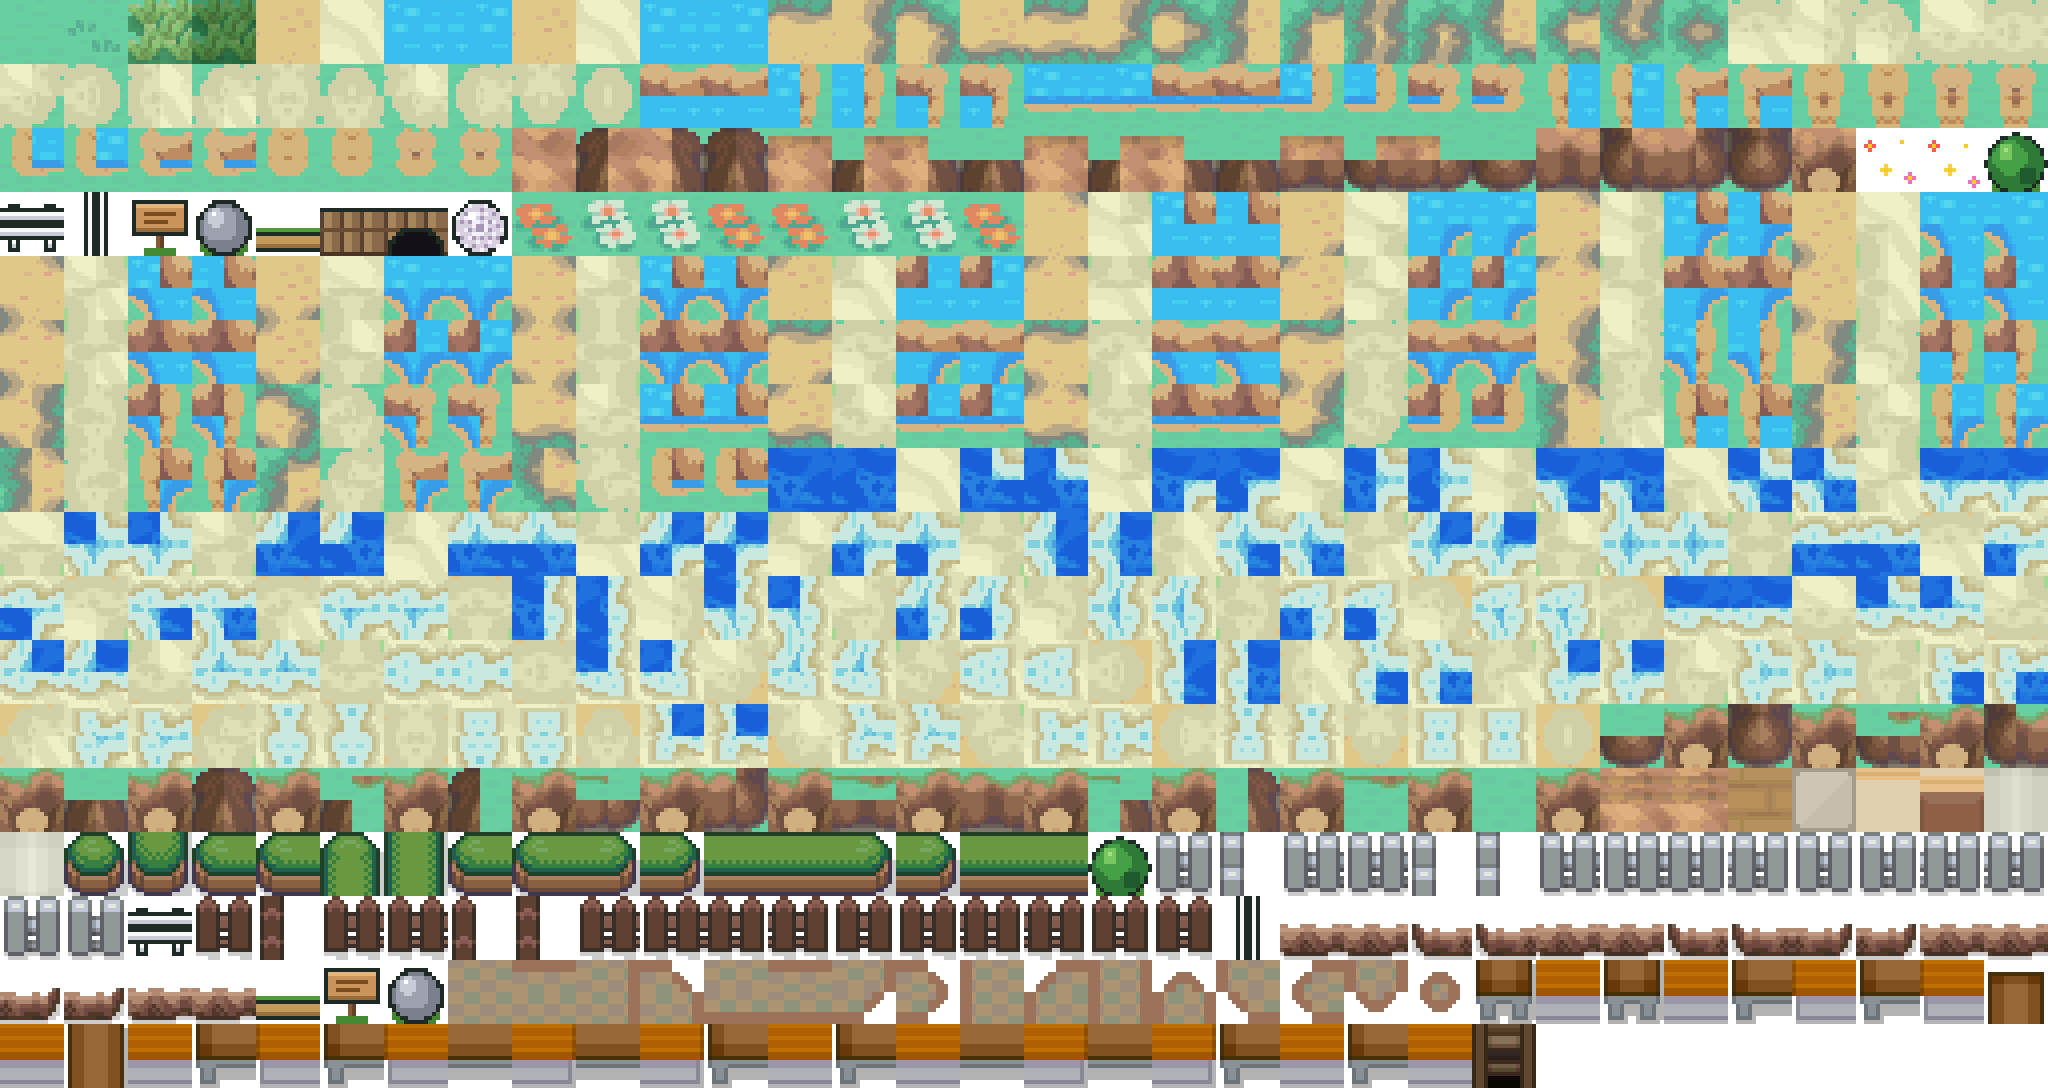
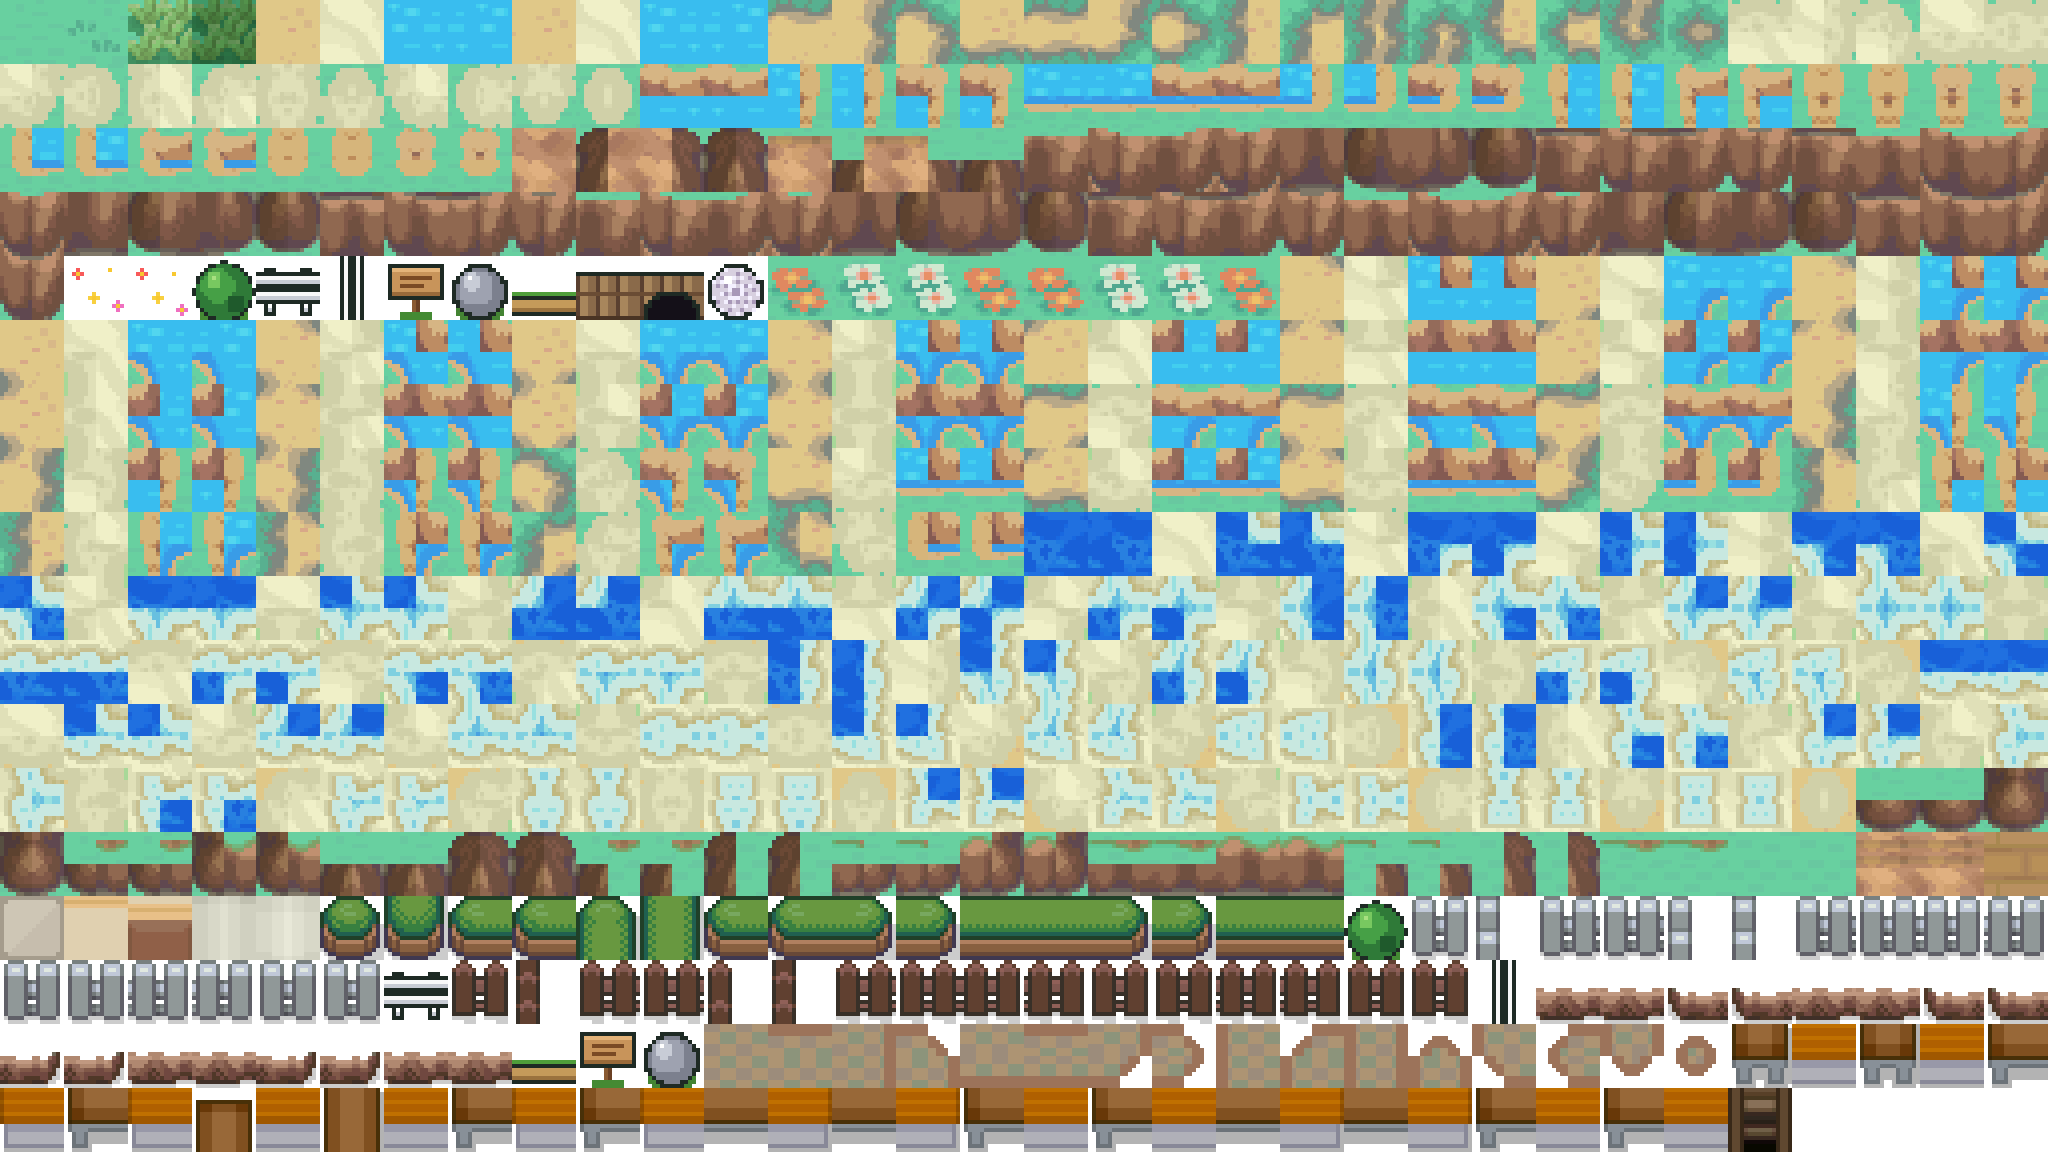
V2: paredes de montaña y bocas de cueva con las piezas de pared de la lámina
Claude-Session: https://claude.ai/code/session_018v1fAZrQHSEnPWssP3zxe4

diff --git a/src/game/scenes/overworld.ts b/src/game/scenes/overworld.ts
@@ -467,7 +467,9 @@ export class Overworld implements Scene {
       // muebles altos con dibujo propio (V2): su suelo aquí y el mueble con los personajes (por profundidad)
       const alto = PROPS[`obj_${t}`];
       if (alto?.nativo) {
-        g.tile(suelo, x * 16 - cx, y * 16 - cy, x, y);
+        // bocas de cueva (V2): la pared debajo y la boca encima, por profundidad
+        if (t === "monte_cueva" || t === "cueva_entrada") g.tile(t, x * 16 - cx, y * 16 - cy, x, y, suelo, this.vecinos(x, y, t), this.map.env, 0);
+        else g.tile(suelo, x * 16 - cx, y * 16 - cy, x, y);
         altos.push([`obj_${t}`, x * 16 - cx, y * 16 - cy]);
         continue;
       }

diff --git a/tools/art/tileset_v2.py b/tools/art/tileset_v2.py
@@ -134,6 +134,15 @@ def relieve(h, r, c0, mask, cesped=False):
     o = a_cesped_v2(o)
     return sobre(HIERBA, o)
 
+def pared(y, e, w, alt):
+    """Casilla de pared de la montaña (16 px desde la fila y de la lámina terreno2, columnas 0-3)."""
+    def col(c): return a_cesped_v2(c16(T2, c * 16, y))
+    medio = col(1 + alt)
+    o = medio.copy()
+    if w: o[:, :8] = col(0)[:, :8]
+    if e: o[:, 8:] = col(3)[:, 8:]
+    return o
+
 def con_cueva(t, h, r):
     """Boca de cueva de la plantilla (fila r, columnas 4-5: recortada centrada en el hueco) sobre la pared."""
     b = a_cesped_v2(c16(h, 4 * 16 + 8, r * 16))
@@ -328,17 +337,21 @@ def main():
     # tile más arriba (se recorta desplazado).
     for k in range(16):
         pon(f"acantilado~{k}", relieve(T2, 335, 0, 15 - k, cesped=True))          # ~: vecinos iguales
-        pon(f"cueva_entrada~{k}", con_cueva(relieve(T2, 335, 0, 15 - k, cesped=True), T2, 341))
+        pon(f"cueva_entrada~{k}", relieve(T2, 335, 0, 15 - k, cesped=True))          # la boca va encima (obj_cueva_entrada)
     for n in (0, 1):
         for e in (0, 1):
             for w in (0, 1):
                 pon(f"monte_cima_{n}{e}{w}", relieve(T2, 315, 0, n | e * 2 | w * 8))
     for e in (0, 1):
         for w in (0, 1):
-            pon(f"monte_alta_{e}{w}", relieve(T2, 315, 0, 1 | e * 2 | w * 8))
-            pon(f"monte_cara1_{e}{w}", relieve(T2, 315, 0, 1 | 4 | e * 2 | w * 8))
-            pon(f"monte_cara2_{e}{w}", relieve(T2, 315, 0, 4 | e * 2 | w * 8))
-    pon("monte_cueva", con_cueva(relieve(T2, 315, 0, 4), T2, 321))
+            # paredes de la montaña con las piezas de pared de la lámina (filas 550-557): la de dos alturas se
+            # reparte entre la casilla alta y la baja; la de una altura, en una casilla. Extremos redondeados a
+            # los lados abiertos; en medio alternan dos columnas.
+            for q in range(4):
+                pon(f"monte_alta_{e}{w}", sobre(HIERBA, pared(8838, e, w, q % 2)), q)
+                pon(f"monte_cara2_{e}{w}", sobre(HIERBA, pared(8854, e, w, q % 2)), q)
+                pon(f"monte_cara1_{e}{w}", sobre(HIERBA, pared(8808, e, w, q % 2)), q)
+    pon("monte_cueva", sobre(HIERBA, pared(8854, 0, 0, 0)))          # la boca va encima (obj_monte_cueva)
     # escaleras talladas: en la roca de la montaña y en los desniveles de césped
     pon("escalon", sobre(t16(T2, 331, 4), t16(T2, 331, 4)))
     pon("escalon_cesped", sobre(t16(T2, 331, 4), t16(T2, 331, 4)))         # también de roca: se leen mejor
@@ -396,6 +409,8 @@ def main():
         "obj_planta": recorta(INT, 16, 7752, 16, 42),
         "obj_estanteria": recorta(INT, 48, 7264, 16, 50),
         "obj_pc": recorta(INT, 64, 6704, 18, 34),
+        "obj_monte_cueva": recorta(T2, 0, 8928, 48, 32),             # boca de cueva de la montaña (2 casillas)
+        "obj_cueva_entrada": recorta(T2, 0, 8928, 48, 32),
     }
     def base_solida(s):
         ys = np.where((s[..., 3] == 255).any(1))[0]

diff --git a/PROGRESO.md b/PROGRESO.md
@@ -184,5 +184,7 @@ Roadmap: 7 fases (0–6). Cada fase termina en una puerta.
 - V2, relieve: segunda lámina del usuario (`assets/reference/tileset_v2/terreno2.png` y `edificios2.png`, pasadas a tiras nativas de 128 px). Los acantilados («A») son ahora desniveles con la plantilla de meseta de césped (el terreno del norte está más alto: la cara mira al sur, a casilla entera); la montaña («%») usa la plantilla de roca marrón (borde, laterales y cara), con boca de cueva y escaleras talladas de la lámina. El borde de las «saltillas» (cornisas «v») sigue siendo la pieza fina de la primera lámina.
 - V2, ciudades nuevas (`src/game/world/ciudades_v2.ts`, solo en la V2): ciudades de unas 50×38 casillas y pueblos de unas 30×24, con calles en cuadrícula, avenida central y bandas de edificios que dan a las calles. Conservan los edificios propios, sus interiores, los PNJ con historia (los guardias en su salida o puerta), carteles (junto a su edificio o salida) y objetos; añaden casas nuevas con interior y un vecino, comercios y bloques del tileset sin repetir, arboledas, farolas, macetas, paseantes con frases, estanque en los pueblos y muelle con velero en Ciudad Pili e Isla Conjugada (el ferri llega al embarcadero, `puntos.ferri`). Comprobación: `bun run tools/v2_check.ts` (accesos, warps de ida y vuelta, PNJ y objetos) y `node tools/playtest_v2.cjs` (entra y sale por las 81 puertas).
 
+- V2, montaña (Ruta 3 y demás «%»): las paredes usan las piezas de pared de la lámina terreno2 (filas 550-557): la de dos alturas repartida entre la casilla alta y la baja, la de una altura en una casilla, con extremos redondeados a los lados abiertos; la boca de cueva es la de la lámina (2 casillas de ancho), dibujada encima de la pared (también en los desniveles de césped).
+
 ## Siguiente tarea
 Pendiente del GDD: Modo Torneo y mochila bloqueada en Difícil, objetos equipados, variocolor y RandomLocke. Posibles mejoras: más diálogos y misiones secundarias, mejorar la calidad de los sprites (Microos diseñados por especie, retratos limpios, pasos), música y efectos.
